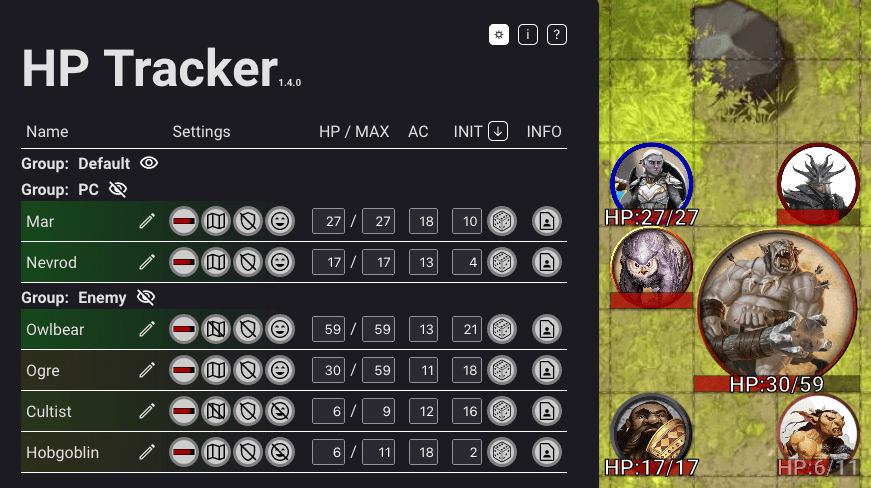
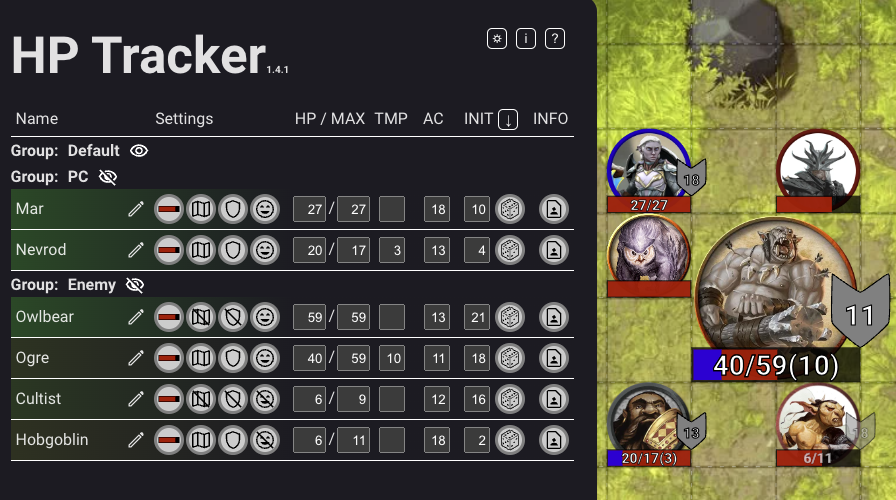
Update documentation

diff --git a/src/helper/helpers.ts b/src/helper/helpers.ts
@@ -36,7 +36,7 @@ export const getAttachedItems = async (id: string, itemTypes: Array<string>) => 
 export const calculatePercentage = async (data: HpTrackerMetadata) => {
     const metadata = (await OBR.scene.getMetadata()) as Metadata;
     const sceneData = metadata[sceneMetadata] as SceneMetadata;
-    const segments = sceneData.hpBarSegments ?? 0;
+    const segments = sceneData ? sceneData.hpBarSegments ?? 0 : 0;
 
     const tempHp = data.stats.tempHp ?? 0;
 

diff --git a/src/components/hptracker/hp-tracker.scss b/src/components/hptracker/hp-tracker.scss
@@ -16,7 +16,9 @@
     border: 1px solid white;
     border-radius: 5px;
     background-color: #1c1b22;
+    padding-top: 2px;
     width: 20px;
+    height: 21px;
     text-align: center;
 
     &.close {

diff --git a/USAGE.md b/USAGE.md
@@ -10,6 +10,7 @@
     - [Token](#token)
       * [Toggle Buttons](#toggle-buttons)
       * [Changing Values](#changing-values)
+      * [Temporary Hitpoints](#temporary-hitpoints)
       * [Initializing Token](#initializing-token)
     - [Statblock](#statblock)
     - [Player Action Window](#player-action-window)
@@ -26,7 +27,7 @@ Designed around the TTRPG game mechanics of Hit Points (HP) and Armor Class (AC)
 The extension has two windows:
 
 + [Hp Tracker action window](#hp-tracker-action-window) 
-+ [Hp Tracker popover](#hp-tracker-popover)
++ [Hp Tracker Context Menu](#hp-tracker-popover)
 
 As well as the following on-scene information:
 
@@ -36,7 +37,7 @@ As well as the following on-scene information:
 
 ### Adding Tokens to the HP Tracker
 
-Tokens that have not yet been added to the HP Tracker have the following icon present when their context menu is open:
+Tokens that have not yet been added to the HP Tracker have the following icon present when their context menu is open (right click on token):
 
 ![Context Menu](https://raw.githubusercontent.com/kamejosh/owlbear-hp-tracker/master/docs/context_menu.png)
 
@@ -77,6 +78,7 @@ The following settings are available:
 + Statblock Game Rules: You can choose between DnD 5e and Pathfinder 2e as source for your statblocks. This will impact what statblocks are found, how they are displayed, and the content (including spells).
 + HP Bar Segments: This setting can be used to obfuscate the real HP loss of a creature. E.g. when set to "2" the HP Bar differentiates between 3 states: Full HP, less than half HP, and 0 HP. When changing the settings HP Bars are not updated until the HP value is changed at least once.
 + Text and Bar Offset: To have a more flexible positioning of the HP Bar and Text, a value can be entered (negative or positive number) and the position of the HP Bar and Text is then adjusted by this value
++ Armorclass Icon and Text Offset: To have a more flexible positioning of the AC Background and Text a offset for the X- and Y-Axis can be added. This value is scaled considering the Token size. 
 + Allow negative HP/AC: By default negative HP and AC are not allowed but when this settings is checked then HP and AC can be set to negative numbers. The HP Bar will always display negative HP the same as when it is 0.
 + Groups: This setting allows you to define different Groups used for ordering Tokens. There is a permanent "Default" group. The groups can be rearranged by dragging and dropping them in the desired order. To add a group use the text input below the group list. Press "Enter" to add a group to the list. Tokens in the HP Tracker remember their group association (if the group is deleted) but are added into the default group until they are moved to a different group. So deleting and re-adding the same group restores the previously associated tokens to that same group.
 
@@ -117,6 +119,7 @@ A token in the HP Tracker represents a single Owlbear scene item where the HP Tr
 + Values
   + Current HP
   + Max HP
+  + Temporary HP
   + AC
   + Initiative
 + Roll initiative
@@ -150,6 +153,13 @@ Values can be changed in a few different ways:
 + Rolling Initiative: When clicking the Initiative Button a random number between 1 and 20 is rolled and the dexterity modifier from the [Statblock](#statblock) (if selected) is added and entered as the final initiative value.
 
 **Note: The HP value can never exceed the maxHP value ([except when maxHP is 0](#initializing-token)). It can also not be a negative number if the [Global Setting](#global-settings) for "Allow negative numbers" is not selected. All symbols except numbers will be removed to maintain a compatible value.**
+
+##### Temporary Hitpoints
+
+Temporary Hitpoints follow these rules:
+
++ Adding temporary hitpoints increases the current hitpoint maximum as well as the current hitpoints.
++ Once temporary hitpoints are active, decreasing normal hitpoints removes the same amount of temporary hitpoints. E.g. if a token has 5 temporary HP, and takes 3 HP damage, the temporary HP are now at 2.
 
 ##### Initializing Token
 
